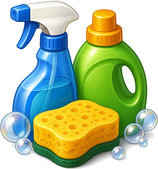
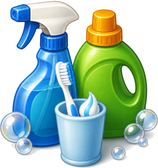
Un sol grup Neteja i higiene amb icona nova (ampolles + got amb raspall)
Claude-Session: https://claude.ai/code/session_01U8Mmhj3w1kDHbZEJg4YuWh

diff --git a/nova/index.html b/nova/index.html
@@ -432,7 +432,7 @@ button.dgr{width:100%;border:0;box-shadow:none;min-height:0;height:auto;font:inh
 <div id="app" aria-live="polite"></div>
 
 <script>
-const APPV="1793369295";let UPD=0,UPS=0;
+const APPV="1793369399";let UPD=0,UPS=0;
 
 const IC={"docs": "<svg viewBox=\"0 0 40 40\" width=\"22\" height=\"22\" aria-hidden=\"true\"><path d=\"M9 4h15l8 8v23a2 2 0 0 1-2 2H9a2 2 0 0 1-2-2V6a2 2 0 0 1 2-2z\" fill=\"#fff\" stroke=\"#5b6b7a\" stroke-width=\"1.5\"/><path d=\"M24 4v8h8\" fill=\"#e3e8ee\" stroke=\"#5b6b7a\" stroke-width=\"1.5\" stroke-linejoin=\"round\"/><circle cx=\"27\" cy=\"29\" r=\"8.5\" fill=\"#3f8a3a\" stroke=\"#fff\" stroke-width=\"1.6\"/><path d=\"M27 33.5v-9M23 28l4-4 4 4\" fill=\"none\" stroke=\"#fff\" stroke-width=\"2.2\" stroke-linecap=\"round\" stroke-linejoin=\"round\"/><path d=\"M12 17h10M12 21h7\" stroke=\"#9aa6b2\" stroke-width=\"1.6\" stroke-linecap=\"round\"/></svg>", "receptari": "<svg viewBox=\"0 0 40 40\" width=\"22\" height=\"22\" aria-hidden=\"true\"><path d=\"M6 7c5-2 10-2 14 1v27c-4-3-9-3-14-1z\" fill=\"#fff6e3\" stroke=\"#8a5a2b\" stroke-width=\"1.4\" stroke-linejoin=\"round\"/><path d=\"M34 7c-5-2-10-2-14 1v27c4-3 9-3 14-1z\" fill=\"#fff6e3\" stroke=\"#8a5a2b\" stroke-width=\"1.4\" stroke-linejoin=\"round\"/><path d=\"M4 9v26c6-2 11-2 16 1 5-3 10-3 16-1V9\" fill=\"none\" stroke=\"#c8352b\" stroke-width=\"2.4\" stroke-linejoin=\"round\"/><path d=\"M10 14h6M10 18h6M24 14h6M24 18h5\" stroke=\"#c9a46a\" stroke-width=\"1.5\" stroke-linecap=\"round\"/><path d=\"M27 24c0-2 3-2 3 0 0 2-3 3.5-3 3.5s-3-1.5-3-3.5c0-2 3-2 3 0z\" fill=\"#e0533f\"/></svg>", "menu": "<svg viewBox=\"0 0 40 40\" width=\"22\" height=\"22\" aria-hidden=\"true\"><rect x=\"5\" y=\"7\" width=\"30\" height=\"28\" rx=\"3\" fill=\"#fff\" stroke=\"#2f74b5\" stroke-width=\"1.5\"/><path d=\"M5 10a3 3 0 0 1 3-3h24a3 3 0 0 1 3 3v4H5z\" fill=\"#2f74b5\"/><path d=\"M12 4v6M28 4v6\" stroke=\"#1f4f80\" stroke-width=\"2.2\" stroke-linecap=\"round\"/><circle cx=\"20\" cy=\"25\" r=\"6.5\" fill=\"#f3e3c4\" stroke=\"#c9a46a\" stroke-width=\"1.3\"/><circle cx=\"20\" cy=\"25\" r=\"3.8\" fill=\"#fff\" stroke=\"#e2cfa6\" stroke-width=\"1\"/><path d=\"M10.5 20v10M9 20v3.5a1.5 1.5 0 0 0 3 0V20M29.5 20c1.6 0 1.8 3 1.8 4.6 0 1-.8 1.4-1.8 1.4V30\" fill=\"none\" stroke=\"#8a93a0\" stroke-width=\"1.2\" stroke-linecap=\"round\"/></svg>", "treball": "<svg viewBox=\"0 0 40 40\" width=\"22\" height=\"22\" aria-hidden=\"true\"><rect x=\"8\" y=\"6\" width=\"24\" height=\"30\" rx=\"3\" fill=\"#c98a4b\" stroke=\"#7a4a1e\" stroke-width=\"1.4\"/><rect x=\"11\" y=\"10\" width=\"18\" height=\"23\" rx=\"1.5\" fill=\"#fff\"/><rect x=\"15\" y=\"3.5\" width=\"10\" height=\"5\" rx=\"1.5\" fill=\"#9aa0a6\" stroke=\"#6b7177\" stroke-width=\"1\"/><path d=\"M14 16l2 2 3.5-3.5M14 23l2 2 3.5-3.5\" fill=\"none\" stroke=\"#3f8a3a\" stroke-width=\"1.9\" stroke-linecap=\"round\" stroke-linejoin=\"round\"/><path d=\"M22 17h5M22 24h5M14 29.5h13\" stroke=\"#b9bfc6\" stroke-width=\"1.6\" stroke-linecap=\"round\"/></svg>", "despesa": "<svg viewBox=\"0 0 40 40\" width=\"22\" height=\"22\" aria-hidden=\"true\"><path d=\"M8 4h20v31l-2.5-2-2.5 2-2.5-2-2.5 2-2.5-2-2.5 2-2.5-2L8 35z\" fill=\"#fff\" stroke=\"#7a838b\" stroke-width=\"1.4\" stroke-linejoin=\"round\"/><path d=\"M12 10h12M12 14h9M12 18h12\" stroke=\"#b9bfc6\" stroke-width=\"1.6\" stroke-linecap=\"round\"/><circle cx=\"27\" cy=\"27\" r=\"8\" fill=\"#f2c14a\" stroke=\"#c48a1a\" stroke-width=\"1.5\"/><path d=\"M29.6 23.6a4 4 0 1 0 0 6.8M22.8 25.8h5.4M22.8 28.2h5.4\" fill=\"none\" stroke=\"#8a5a10\" stroke-width=\"1.6\" stroke-linecap=\"round\"/></svg>", "hudsilo": "<svg aria-hidden=\"true\" width=\"30\" height=\"30\" viewBox=\"0 0 64 64\"><defs><linearGradient id=\"hsr\" x1=\"0\" x2=\"1\"><stop offset=\"0\" stop-color=\"#8f1a12\"/><stop offset=\".28\" stop-color=\"#d8392a\"/><stop offset=\".55\" stop-color=\"#e9503d\"/><stop offset=\"1\" stop-color=\"#9e2016\"/></linearGradient><linearGradient id=\"hsroof\" x1=\"0\" x2=\"1\"><stop offset=\"0\" stop-color=\"#3f3029\"/><stop offset=\".45\" stop-color=\"#7b6556\"/><stop offset=\"1\" stop-color=\"#4a3a31\"/></linearGradient><linearGradient id=\"hsgr\" x1=\"0\" y1=\"0\" x2=\"0\" y2=\"1\"><stop offset=\"0\" stop-color=\"#f7d36a\"/><stop offset=\".25\" stop-color=\"#e3a43a\"/><stop offset=\"1\" stop-color=\"#b8711e\"/></linearGradient><linearGradient id=\"hsmet\" x1=\"0\" x2=\"1\"><stop offset=\"0\" stop-color=\"#5d666e\"/><stop offset=\".5\" stop-color=\"#b9c2ca\"/><stop offset=\"1\" stop-color=\"#626b73\"/></linearGradient><linearGradient id=\"hsst\" x1=\"0\" y1=\"0\" x2=\"0\" y2=\"1\"><stop offset=\"0\" stop-color=\"#e4d8c6\"/><stop offset=\"1\" stop-color=\"#a99880\"/></linearGradient></defs><ellipse cx=\"32\" cy=\"58.5\" rx=\"17\" ry=\"4.2\" fill=\"url(#hsst)\" stroke=\"#7d6c56\" stroke-width=\"1.2\"/><path d=\"M17 17h30l-2.6 40.6c-6.2 2.2-18.6 2.2-24.8 0z\" fill=\"url(#hsr)\" stroke=\"#5f130c\" stroke-width=\"1.5\" stroke-linejoin=\"round\"/><path d=\"M22.4 18.5l1 40M27.6 18.6l.4 40.6M32.8 18.6v40.8M38 18.6l-.4 40.6M43.2 18.5l-1 40\" stroke=\"#7d160e\" stroke-width=\"1\" opacity=\".75\"/><path d=\"M20.2 18.8l1.6 38.4\" stroke=\"#f47b66\" stroke-width=\"1.6\" opacity=\".7\"/><path d=\"M17.3 27.5c8.6 2.8 20.8 2.8 29.4 0M18.3 44c8 2.6 19.4 2.6 27.4 0\" fill=\"none\" stroke=\"#5f130c\" stroke-width=\"3.4\" opacity=\".35\"/><path d=\"M17.3 27c8.6 2.8 20.8 2.8 29.4 0M18.3 43.5c8 2.6 19.4 2.6 27.4 0\" fill=\"none\" stroke=\"#fbf6ee\" stroke-width=\"2.4\"/><path d=\"M28.4 21.5h7.2l-1.2 33h-4.8z\" fill=\"#fbf6ee\" stroke=\"#6b1a10\" stroke-width=\"1\"/><path d=\"M29.9 23.2h4.2l-1 29.6h-2.2z\" fill=\"#5d120b\"/><path d=\"M30.4 36.5h3.4l-.7 16.3h-2.2z\" fill=\"url(#hsgr)\"/><path d=\"M30.2 37c.3-4.4 3.5-4.4 3.8 0z\" fill=\"#f7d36a\" stroke=\"#c48a26\" stroke-width=\".5\"/><circle cx=\"31.4\" cy=\"34.8\" r=\".5\" fill=\"#fff3c4\"/><circle cx=\"32.8\" cy=\"35.6\" r=\".4\" fill=\"#fff3c4\"/><path d=\"M19.5 41l-2.6.6.4 14.8M44.5 41l2.6.6-.4 14.8\" fill=\"none\" stroke=\"url(#hsmet)\" stroke-width=\"2.4\" stroke-linecap=\"round\" stroke-linejoin=\"round\"/><rect x=\"15.6\" y=\"55.3\" width=\"3.4\" height=\"2\" rx=\".6\" fill=\"#7d868f\" stroke=\"#3f464c\" stroke-width=\".6\"/><rect x=\"45\" y=\"55.3\" width=\"3.4\" height=\"2\" rx=\".6\" fill=\"#7d868f\" stroke=\"#3f464c\" stroke-width=\".6\"/><path d=\"M46 21.4h4.4v3.4\" fill=\"none\" stroke=\"url(#hsmet)\" stroke-width=\"2.2\" stroke-linecap=\"round\"/><path d=\"M50.4 24.8c1.4 4 .6 8 -1 10\" fill=\"none\" stroke=\"#a87c4f\" stroke-width=\".9\"/><path d=\"M32 3.5 14.2 17.4c5 2.4 30.6 2.4 35.6 0z\" fill=\"url(#hsroof)\" stroke=\"#2a201b\" stroke-width=\"1.5\" stroke-linejoin=\"round\"/><path d=\"M32 4.4l-7.6 13.8M32 4.4l7.2 13.8\" stroke=\"#8d7766\" stroke-width=\".8\" opacity=\".6\"/><path d=\"M21.6 11l6.2-2.2 2.4 4.2-6.4 2.2z\" fill=\"#d3d9de\" stroke=\"#5f676e\" stroke-width=\"1\"/><path d=\"M24.4 11.6l2.4-.8\" stroke=\"#5f676e\" stroke-width=\"1\" stroke-linecap=\"round\"/></svg>", "shopico": "<svg aria-hidden=\"true\" width=\"34\" height=\"34\" viewBox=\"0 0 64 64\"><defs><linearGradient id=\"bw\" x1=\"0\" x2=\"0\" y1=\"0\" y2=\"1\"><stop offset=\"0\" stop-color=\"#9c5f30\"/><stop offset=\"1\" stop-color=\"#6a3b19\"/></linearGradient><linearGradient id=\"bp\" x1=\"0\" x2=\"1\"><stop offset=\"0\" stop-color=\"#6f4120\"/><stop offset=\".5\" stop-color=\"#a86a35\"/><stop offset=\"1\" stop-color=\"#6f4120\"/></linearGradient><linearGradient id=\"bc\" x1=\"0\" x2=\"0\" y1=\"0\" y2=\"1\"><stop offset=\"0\" stop-color=\"#e4b47a\"/><stop offset=\"1\" stop-color=\"#b9824a\"/></linearGradient><linearGradient id=\"bcin\" x1=\"0\" x2=\"0\" y1=\"0\" y2=\"1\"><stop offset=\"0\" stop-color=\"#7a4a24\"/><stop offset=\"1\" stop-color=\"#a86e3c\"/></linearGradient><linearGradient id=\"awr\" x1=\"0\" x2=\"0\" y1=\"0\" y2=\"1\"><stop offset=\"0\" stop-color=\"#f05a48\"/><stop offset=\"1\" stop-color=\"#c62a20\"/></linearGradient><linearGradient id=\"aww\" x1=\"0\" x2=\"0\" y1=\"0\" y2=\"1\"><stop offset=\"0\" stop-color=\"#ffffff\"/><stop offset=\"1\" stop-color=\"#e9ddd0\"/></linearGradient><radialGradient id=\"ar\" cx=\".35\" cy=\".35\" r=\".7\"><stop offset=\"0\" stop-color=\"#ff8a7a\"/><stop offset=\".5\" stop-color=\"#e3261c\"/><stop offset=\"1\" stop-color=\"#9c120c\"/></radialGradient><radialGradient id=\"ag\" cx=\".35\" cy=\".35\" r=\".7\"><stop offset=\"0\" stop-color=\"#d9ff9a\"/><stop offset=\".5\" stop-color=\"#6cc43a\"/><stop offset=\"1\" stop-color=\"#2f7a1a\"/></radialGradient><linearGradient id=\"bk\" x1=\"0\" x2=\"1\"><stop offset=\"0\" stop-color=\"#7a4a24\"/><stop offset=\".5\" stop-color=\"#c0814a\"/><stop offset=\"1\" stop-color=\"#7a4a24\"/></linearGradient></defs><path d=\"M4 50l10-5h40l4 6-10 7H8z\" fill=\"url(#bw)\" stroke=\"#3f230e\" stroke-width=\"1.3\" stroke-linejoin=\"round\"/><path d=\"M12 47l-3 9M20 46l-3 11M28 46l-2 12M36 46l-1 12M44 46l1 12M52 47l2 9\" stroke=\"#4a2a12\" stroke-width=\".9\" opacity=\".7\"/><rect x=\"49\" y=\"12\" width=\"3.6\" height=\"40\" rx=\"1\" fill=\"url(#bp)\" stroke=\"#3f230e\" stroke-width=\"1.1\"/><rect x=\"13.2\" y=\"18\" width=\"3.4\" height=\"28\" rx=\"1\" fill=\"url(#bp)\" stroke=\"#3f230e\" stroke-width=\"1.1\"/><path d=\"M16 40h32v9H17z\" fill=\"#a8622e\" stroke=\"#4a2a12\" stroke-width=\"1.1\"/><path d=\"M17 44.5h31\" stroke=\"#7a431c\" stroke-width=\".9\"/><path d=\"M13 37.5l34-5 4 7.6-35 5.4z\" fill=\"#f1dfbd\" stroke=\"#6b3f17\" stroke-width=\"1.1\" stroke-linejoin=\"round\"/><path d=\"M15 36.5l31.6-4.8 3 6-32 4.9z\" fill=\"url(#bc)\" stroke=\"#5e3614\" stroke-width=\"1.1\" stroke-linejoin=\"round\"/><path d=\"M18.4 37.6l9-1.4 1 2.6-9 1.4zM29.4 35.9l9-1.4 1 2.6-9 1.4zM40.2 34.3l6-.9 1.1 2.6-6.1.9zM19.6 39.9l9-1.4.9 1.4-9 1.4zM30.6 38.2l9-1.4.9 1.4-9 1.4z\" fill=\"url(#bcin)\"/><path d=\"M27.4 36.2l2.1 4.3M38.4 34.5l2 4.3\" stroke=\"#5e3614\" stroke-width=\"1.2\"/><path d=\"M8.5 15.5C14 9 38 5.5 54 9.5l1.6 5\" fill=\"none\" stroke=\"#7a1e14\" stroke-width=\"1.4\"/><path d=\"M8.5 15.5 10 24.5c2.4 2 5.2 1.6 6.4-.6 2.2 2.1 5 1.8 6.3-.5 2.2 2 5 1.7 6.2-.6 2.2 2 5 1.6 6.2-.6 2.2 1.9 5 1.6 6.1-.7 2.2 1.9 4.9 1.5 6-.8 2.1 1.7 4.7 1.3 5.6-1L54 9.5C38 5.5 14 9 8.5 15.5z\" fill=\"url(#aww)\" stroke=\"#7a1e14\" stroke-width=\"1.4\" stroke-linejoin=\"round\"/><path d=\"M10 24.5c2.4 2 5.2 1.6 6.4-.6l-1.4-11.6-6.5 3.2zM22.7 23.4c2.2 2 5 1.7 6.2-.6l-1.2-13-6.7 1.4zM35.1 22.2c2.2 1.9 5 1.6 6.1-.7l-.6-13.1-6.6.4zM47.2 20.7c2.1 1.7 4.7 1.3 5.6-1L54 9.5l-6.4-1.1z\" fill=\"url(#awr)\"/><path d=\"M10.5 16.4c8-4.2 28-6 42.4-3.4\" fill=\"none\" stroke=\"#fff\" stroke-width=\"1\" opacity=\".55\"/><circle cx=\"31\" cy=\"7.3\" r=\"1.3\" fill=\"#a9b2ba\" stroke=\"#5f676e\" stroke-width=\".6\"/><circle cx=\"53.6\" cy=\"9.6\" r=\"1.3\" fill=\"#a9b2ba\" stroke=\"#5f676e\" stroke-width=\".6\"/><path d=\"M2.5 48.5h12l-1.4 9.5H4z\" fill=\"url(#bk)\" stroke=\"#4a2a12\" stroke-width=\"1.1\"/><path d=\"M3.2 52.3h10.6\" stroke=\"#9aa3ab\" stroke-width=\"1.6\"/><circle cx=\"5.6\" cy=\"47.2\" r=\"2.6\" fill=\"url(#ag)\"/><circle cx=\"9.4\" cy=\"46.4\" r=\"2.7\" fill=\"url(#ag)\"/><circle cx=\"12.3\" cy=\"47.6\" r=\"2.3\" fill=\"url(#ag)\"/><path d=\"M47 51.5h12l-1.4 9.5h-9.2z\" fill=\"url(#bk)\" stroke=\"#4a2a12\" stroke-width=\"1.1\"/><path d=\"M47.7 55.3h10.6\" stroke=\"#9aa3ab\" stroke-width=\"1.6\"/><circle cx=\"50.2\" cy=\"50.2\" r=\"2.6\" fill=\"url(#ar)\"/><circle cx=\"54\" cy=\"49.4\" r=\"2.7\" fill=\"url(#ar)\"/><circle cx=\"56.8\" cy=\"50.6\" r=\"2.3\" fill=\"url(#ar)\"/><path d=\"M54 46.8l.4-1.4\" stroke=\"#4a2a12\" stroke-width=\".8\"/></svg>", "veiico": "<svg aria-hidden=\"true\" width=\"32\" height=\"32\" viewBox=\"0 0 64 64\"><path d=\"M2 47c10-5 21-6 30-4s20 3 30-2v19H2z\" fill=\"#7fb944\"/><g stroke=\"#6b4423\" stroke-width=\"1.8\" stroke-linejoin=\"round\"><rect x=\"5\" y=\"32\" width=\"15\" height=\"14\" rx=\"1\" fill=\"#fbf1dc\"/><path d=\"M3 33.5 12.5 22 22 33.5z\" fill=\"#d1453b\"/><rect x=\"44\" y=\"32\" width=\"15\" height=\"14\" rx=\"1\" fill=\"#fbf1dc\"/><path d=\"M42 33.5 51.5 22 61 33.5z\" fill=\"#eaa63a\"/><rect x=\"38\" y=\"15\" width=\"4.5\" height=\"9\" fill=\"#a8562c\"/><rect x=\"19\" y=\"28\" width=\"26\" height=\"21\" rx=\"1.2\" fill=\"#fffaf0\"/><path d=\"M16 30 32 14l16 16z\" fill=\"#6e8c3c\"/><rect x=\"28.5\" y=\"38\" width=\"7\" height=\"11\" rx=\"1\" fill=\"#9a5a2b\"/></g><rect x=\"22.5\" y=\"32\" width=\"4.5\" height=\"4\" fill=\"#8cc7ec\"/><rect x=\"37\" y=\"32\" width=\"4.5\" height=\"4\" fill=\"#8cc7ec\"/></svg>", "crea": "<svg viewBox=\"0 0 40 40\" width=\"22\" height=\"22\" aria-hidden=\"true\"><path d=\"M8 4h15l7 7v24a2 2 0 0 1-2 2H8a2 2 0 0 1-2-2V6a2 2 0 0 1 2-2z\" fill=\"#fff\" stroke=\"#5b6b7a\" stroke-width=\"1.5\"/><path d=\"M23 4v7h7\" fill=\"#e3e8ee\" stroke=\"#5b6b7a\" stroke-width=\"1.5\" stroke-linejoin=\"round\"/><path d=\"M11 15h11M11 19h12M11 23h7\" stroke=\"#9aa6b2\" stroke-width=\"1.6\" stroke-linecap=\"round\"/><path d=\"M20 30 31 19l4 4-11 11z\" fill=\"#eaa63a\" stroke=\"#8a5a2b\" stroke-width=\"1.3\" stroke-linejoin=\"round\"/><path d=\"M31 19l1.6-1.6a1.4 1.4 0 0 1 2 0l2 2a1.4 1.4 0 0 1 0 2L35 23z\" fill=\"#e0533f\" stroke=\"#8a5a2b\" stroke-width=\"1.3\" stroke-linejoin=\"round\"/><path d=\"M20 30l4 4-6 2z\" fill=\"#f3e3c4\" stroke=\"#8a5a2b\" stroke-width=\"1.3\" stroke-linejoin=\"round\"/><path d=\"M18.6 34.4 18 36l1.6-.6z\" fill=\"#3d3d3d\"/></svg>", "qc": "<svg viewBox=\"0 0 40 40\" width=\"22\" height=\"22\" aria-hidden=\"true\"><path d=\"M15.5 19 20.3 7.2l3.3 1.3-3.4 10.8z\" fill=\"#eaa63a\" stroke=\"#a8562c\" stroke-width=\"1.3\" stroke-linejoin=\"round\"/><path d=\"M18 13.5l2 .8M17 16l1.8.7\" stroke=\"#a8562c\" stroke-width=\"1\" stroke-linecap=\"round\"/><path d=\"M21.5 7.6c-.9-2.6.2-4.3 1.6-4.9.6 1.8.4 3.6-.9 5.2zM22.3 8c1.6-2 3.6-2.2 5-1.4-1.3 1.3-3 1.9-5 1.4z\" fill=\"#7fb944\" stroke=\"#4f7a2a\" stroke-width=\"1\" stroke-linejoin=\"round\"/><path d=\"M25.5 19c-.3-4.2 1.9-7.2 5.6-8.4-.1 3.8-2 6.8-5.6 8.4z\" fill=\"#7fb944\" stroke=\"#4f7a2a\" stroke-width=\"1.2\" stroke-linejoin=\"round\"/><path d=\"M7 20h26v8a7 7 0 0 1-7 7H14a7 7 0 0 1-7-7z\" fill=\"#d8392a\" stroke=\"#8f1a12\" stroke-width=\"1.5\" stroke-linejoin=\"round\"/><path d=\"M4.5 19.5h31\" stroke=\"#8f1a12\" stroke-width=\"2.6\" stroke-linecap=\"round\"/><path d=\"M7 23.5H3.5M33 23.5h3.5\" stroke=\"#8f1a12\" stroke-width=\"2.4\" stroke-linecap=\"round\"/><path d=\"M11 24v4.5\" stroke=\"#f08a7a\" stroke-width=\"1.8\" stroke-linecap=\"round\"/></svg>", "casa": "<svg viewBox=\"0 0 40 40\" width=\"22\" height=\"22\" aria-hidden=\"true\"><ellipse cx=\"20\" cy=\"37.2\" rx=\"14\" ry=\"1.6\" fill=\"#000\" opacity=\".13\"/><path d=\"M7 19 20 7l13 12v17H7z\" fill=\"#f3e3c4\" stroke=\"#7a4a1e\" stroke-width=\"1.3\" stroke-linejoin=\"round\"/><path d=\"M4 20.5 20 5.5l16 15\" fill=\"none\" stroke=\"#c8352b\" stroke-width=\"3.4\" stroke-linecap=\"round\" stroke-linejoin=\"round\"/><rect x=\"26\" y=\"8\" width=\"4\" height=\"7\" fill=\"#9b5a2b\"/><rect x=\"16.5\" y=\"25\" width=\"7\" height=\"11\" rx=\"1\" fill=\"#9b5a2b\"/><path d=\"M14 21.5a3 3 0 0 1 6 0c0 2.6-3 4.4-3 4.4s-3-1.8-3-4.4zM20 21.5a3 3 0 0 1 6 0c0 2.6-3 4.4-3 4.4\" fill=\"none\"/><path d=\"M17.2 18.6c-1.6-1.6-4.2-.2-3.6 2 .5 1.8 3.6 3.6 3.6 3.6s3.1-1.8 3.6-3.6c.6-2.2-2-3.6-3.6-2z\" fill=\"#e0533f\" transform=\"translate(2.8 -1.2)\"/></svg>", "graner": "<svg viewBox=\"0 0 40 40\" width=\"22\" height=\"22\" aria-hidden=\"true\"><ellipse cx=\"20\" cy=\"37.2\" rx=\"15\" ry=\"1.6\" fill=\"#000\" opacity=\".13\"/><path d=\"M6 17.5 9.5 9.5 20 4.5 30.5 9.5 34 17.5V36H6z\" fill=\"#c8352b\" stroke=\"#7d1d17\" stroke-width=\"1.1\" stroke-linejoin=\"round\"/><path d=\"M3.5 18.5 8.4 8.2 20 2.8 31.6 8.2 36.5 18.5\" fill=\"none\" stroke=\"#2f3236\" stroke-width=\"3.2\" stroke-linecap=\"round\" stroke-linejoin=\"round\"/><path d=\"M9 21h22\" stroke=\"#fff\" stroke-width=\"1.6\"/><path d=\"M10 12.4 9.6 13\" stroke=\"#a52a22\" stroke-width=\".8\"/><path d=\"M12 24v12M28 24v12\" stroke=\"#a52a22\" stroke-width=\".8\" opacity=\".7\"/><rect x=\"16.5\" y=\"9.8\" width=\"7\" height=\"6.4\" fill=\"#fff\" stroke=\"#7d1d17\" stroke-width=\".6\"/><path d=\"M16.5 9.8 23.5 16.2M23.5 9.8 16.5 16.2\" stroke=\"#c8352b\" stroke-width=\"1.1\"/><rect x=\"13.5\" y=\"23.5\" width=\"13\" height=\"12.5\" fill=\"#fff\"/><rect x=\"15\" y=\"25\" width=\"10\" height=\"11\" fill=\"#8e2219\"/><path d=\"M15 25 25 36M25 25 15 36\" stroke=\"#fff\" stroke-width=\"1.3\"/><path d=\"M20 25v11\" stroke=\"#fff\" stroke-width=\"1\"/><rect x=\"5.5\" y=\"35.5\" width=\"29\" height=\"1.6\" rx=\".8\" fill=\"#9aa0a6\"/></svg>", "cart": "<svg viewBox=\"0 0 40 40\" width=\"28\" height=\"28\" aria-hidden=\"true\"><path d=\"M3 7h5l4 20h20\" fill=\"none\" stroke=\"#1f4f80\" stroke-width=\"2.4\" stroke-linecap=\"round\" stroke-linejoin=\"round\"/><path d=\"M9.5 12h26l-3 12H12z\" fill=\"#fff\" stroke=\"#2f74b5\" stroke-width=\"1.6\" stroke-linejoin=\"round\"/><path d=\"M15 12.5 18 5.5l3 1.2-2.4 5.8z\" fill=\"#eaa63a\" stroke=\"#a8562c\" stroke-width=\"1.1\" stroke-linejoin=\"round\"/><path d=\"M22 12c.2-3.6 2.2-6 5.4-6.8-.3 3.2-2 5.6-5.4 6.8z\" fill=\"#7fb944\" stroke=\"#4f7a2a\" stroke-width=\"1.1\" stroke-linejoin=\"round\"/><circle cx=\"27\" cy=\"9.5\" r=\"2.6\" fill=\"#d8392a\" stroke=\"#8f1a12\" stroke-width=\"1\"/><path d=\"M15 17h15M14 21h15\" stroke=\"#9aa6b2\" stroke-width=\"1.4\" stroke-linecap=\"round\"/><circle cx=\"14\" cy=\"32\" r=\"2.6\" fill=\"#3d3d3d\"/><circle cx=\"29\" cy=\"32\" r=\"2.6\" fill=\"#3d3d3d\"/></svg>"};
 const PI=n=>`<img class="pi" src="img/${n}.png" alt="" aria-hidden="true">`;Object.assign(IC,{menu:PI("nav_menu"),cart:PI("icona_compra"),receptari:PI("nav_receptari"),despesa:PI("nav_despesa"),crea:PI("nav_crea"),qc:PI("nav_que_cuino"),hudsilo:PI("hud_sitja"),shopico:PI("hud_botiga_37"),veiico:PI("hud_veinat")});
@@ -447,7 +447,8 @@ const LLISTA=[["Verdura i fruita",[["Carbassa","1 kg","Mercat"],["Carbassó","3 
 const RECS=[["Llenties estofades","🥘","#f8e1dd",5],["Truita de carbassó","🥚","#fbeccb",4],["Crema de carbassa","🎃","#fdf0e3",5],["Escudella","🍲","#eaf4e3",5],["Fideuà","🦐","#dbe9f7",4],["Canelons","🫕","#f8e1dd",5]];
 let S={onb:0,email:"",fam:"Rodon Aymar",mem:["Josep","Lídia","Josep","Marina"],memx:[{b:"1969-10-16",g:"h",c:4},{b:"1973-05-12",g:"d",c:3},{b:"2002-03-08",g:"h",c:2},{b:"2005-07-21",g:"d",c:1}],alg:[],res:false,muni:"",pais:"Catalunya",prov:"",inf:0,cfg:false,equip:[],rebost:"",equipx:[],algx:[],addk:"",tab:"setmana",flow:null,step:0,disp:null,menu:null,done:{},ready:false,sub:{compra:"llista",rec:"fam"}};
 const S0=JSON.parse(JSON.stringify(S));
-try{const sv=JSON.parse(localStorage.getItem("mf_nova")||"null");if(sv){if(!sv.memx&&sv.mem)sv.memx=sv.mem.map((m,i)=>({b:"",g:"n",c:i%8}));if(sv.memx)sv.memx.forEach(x=>{if(x.b===undefined)x.b="";delete x.e;});Object.assign(S,sv);if(S.onb>=10&&S.onb!==12)S.onb=99;S.algx=(S.algx||[]).filter(x=>!["Gluten","Lactosa","Fruits secs","Marisc","Ou","Peix","Soja","Porc"].some(a=>a.toLowerCase()===x.toLowerCase()));S.equipx=(S.equipx||[]).filter(x=>x.toLowerCase()!=="torradora");S.flow=null;}}catch(e){}
+const NHM=o=>{if(o)for(const k in o)if(o[k]==="Neteja de casa"||o[k]==="Higiene personal")o[k]="Neteja i higiene";};
+try{const sv=JSON.parse(localStorage.getItem("mf_nova")||"null");if(sv){if(!sv.memx&&sv.mem)sv.memx=sv.mem.map((m,i)=>({b:"",g:"n",c:i%8}));if(sv.memx)sv.memx.forEach(x=>{if(x.b===undefined)x.b="";delete x.e;});Object.assign(S,sv);if(S.onb>=10&&S.onb!==12)S.onb=99;S.algx=(S.algx||[]).filter(x=>!["Gluten","Lactosa","Fruits secs","Marisc","Ou","Peix","Soja","Porc"].some(a=>a.toLowerCase()===x.toLowerCase()));S.equipx=(S.equipx||[]).filter(x=>x.toLowerCase()!=="torradora");S.flow=null;NHM(S.gov);NHM(S.tgov);}}catch(e){}
 function saveS(){if(window._noSave)return;try{localStorage.setItem("mf_nova",JSON.stringify(S));}catch(e){}}
 
 function ovFit(){const o=$(".ovc");if(!o)return;const fl=o.closest(".flow"),ff=fl&&fl.querySelector(".fb .ff");if(!ff)return;const free=fl.getBoundingClientRect().bottom-ff.getBoundingClientRect().bottom;const w=Math.min(310,(free+50)/0.9);o.style.width=w+"px";o.style.display=w<150?"none":"";}
@@ -616,7 +617,7 @@ function pg(hero,title,body,acts){return `<div class="kc qv"><div class="khdr"><
  <button class="cap" data-a="capita" aria-label="Pregunta al Capità Enciam"><img src="img/capita_enciam.png" alt=""></button></div>`;}
 function itabs(key,arr){return `<div class="itabs">${arr.map(([k,f,l])=>`<button class="${S.sub[key]===k?"on":""}" data-sub="${key}:${k}"><img src="img/${f}.png" alt=""><b>${l}</b></button>`).join("")}</div>`;}
 const BTS=[["Mercat","#7cb83a"],["Bonpreu","#e4572e"],["Mercadona","#2e8b57"]];
-const GRL=[["Verdura i fruita","g_verdura"],["Carn","g_carn"],["Peix","g_peix"],["Ous i làctics","g_ou"],["Cereals i pasta","g_cereals"],["Llegums","g_llegums"],["Rebost","rebost"],["Neteja de casa","g_neteja"],["Higiene personal","g_higiene"],["Altres","icona_compra"]];
+const GRL=[["Verdura i fruita","g_verdura"],["Carn","g_carn"],["Peix","g_peix"],["Ous i làctics","g_ou"],["Cereals i pasta","g_cereals"],["Llegums","g_llegums"],["Rebost","rebost"],["Neteja i higiene","g_neteja"],["Altres","icona_compra"]];
 const LL2=[["Verdura i fruita","Carbassa","1 kg","Mercat",2.40],["Verdura i fruita","Carbassó","3 u","Mercat",2.10],["Verdura i fruita","Espinacs","400 g","Bonpreu",2.35],["Verdura i fruita","Pomes","1,5 kg","Mercat",3.30],["Verdura i fruita","Ceba","1 kg","Mercadona",1.29],
 ["Carn","Pit de pollastre","600 g","Bonpreu",5.94],["Carn","Carn d'olla","1 kg","Mercat",9.80],["Peix","Peix de sopa","800 g","Mercat",7.20],["Ous i làctics","Ous","12 u","Mercadona",2.95],["Ous i làctics","Llet","6 l","Mercadona",5.34],
 ["Rebost","Fideus de fideuà","500 g","Mercadona",1.15],["Rebost","Canelons","1 capsa","Mercadona",1.85],["Rebost","Tomàquet triturat","2 pots","Bonpreu",1.98]];
@@ -917,8 +918,8 @@ setTimeout(()=>updChk(false),1500);
 const SBU="https://whdcdxbfxwfriqoeloql.supabase.co",SBK="sb_publishable_zYEUVC56LnvCfGutzhCDtQ_mI2Ogm1W",BLOB=SBU+"/storage/v1/object/public/assets/";
 const MS=["Gen","Feb","Mar","Abr","Mai","Jun","Jul","Ago","Set","Oct","Nov","Des"],MF=["Gener","Febrer","Març","Abril","Maig","Juny","Juliol","Agost","Setembre","Octubre","Novembre","Desembre"];
 const pk=n=>String(n||"").toLowerCase().normalize("NFD").replace(/[\u0300-\u036f]/g,"").replace(/[^a-z0-9]+/g," ").trim().slice(0,60);
-const GMAP={"Verdura":"Verdura i fruita","Fruita":"Verdura i fruita","Carn":"Carn","Peix i marisc":"Peix","Ous i làctics":"Ous i làctics","Pa i bolleria":"Cereals i pasta","Arròs, pasta i llegums":"Cereals i pasta","Rebost i conserves":"Rebost","Elaborats i precuinats":"Rebost","Congelats":"Rebost","Dolços i snacks":"Rebost","Neteja i llar":"Neteja de casa","Higiene personal":"Higiene personal"};
-const GKW=[["Verdura i fruita","enciam tomaquet ceba all pastanaga carbassa carbasso patata pebrot espinac bleda porro api col brocoli poma pera platan taronja llimona maduixa raim meló sindria fruita verdura bolet alberginia mongeta tendra"],["Carn","pollastre porc vedella xai conill hamburguesa botifarra pernil carn salsitxa gall dindi llom"],["Peix","peix lluc salmo tonyina bacalla sipia calamar gamba musclo rap llobarro orada sardina seito"],["Ous i làctics","ou ous llet iogurt formatge mantega nata"],["Cereals i pasta","pa arros pasta macarrons espaguetis fideus farina cereals galetes"],["Llegums","llenties cigrons mongetes seques"],["Rebost","oli vinagre sal sucre tomaquet triturat conserva tonyina en llauna cafe te xocolata"],["Neteja de casa","detergent lleixiu suavitzant rentavaixelles fregall esponja bossa escombraries netejador vitroceramica"],["Higiene personal","xampu gel dutxa sabo pasta dents raspall desodorant compreses tampons higienic cotonets crema"]];
+const GMAP={"Verdura":"Verdura i fruita","Fruita":"Verdura i fruita","Carn":"Carn","Peix i marisc":"Peix","Ous i làctics":"Ous i làctics","Pa i bolleria":"Cereals i pasta","Arròs, pasta i llegums":"Cereals i pasta","Rebost i conserves":"Rebost","Elaborats i precuinats":"Rebost","Congelats":"Rebost","Dolços i snacks":"Rebost","Neteja i llar":"Neteja i higiene","Higiene personal":"Neteja i higiene"};
+const GKW=[["Verdura i fruita","enciam tomaquet ceba all pastanaga carbassa carbasso patata pebrot espinac bleda porro api col brocoli poma pera platan taronja llimona maduixa raim meló sindria fruita verdura bolet alberginia mongeta tendra"],["Carn","pollastre porc vedella xai conill hamburguesa botifarra pernil carn salsitxa gall dindi llom"],["Peix","peix lluc salmo tonyina bacalla sipia calamar gamba musclo rap llobarro orada sardina seito"],["Ous i làctics","ou ous llet iogurt formatge mantega nata"],["Cereals i pasta","pa arros pasta macarrons espaguetis fideus farina cereals galetes"],["Llegums","llenties cigrons mongetes seques"],["Rebost","oli vinagre sal sucre tomaquet triturat conserva tonyina en llauna cafe te xocolata"],["Neteja i higiene","detergent lleixiu suavitzant rentavaixelles fregall esponja bossa escombraries netejador vitroceramica"],["Neteja i higiene","xampu gel dutxa sabo pasta dents raspall desodorant compreses tampons higienic cotonets crema"]];
 function gOf(n,P){const k=pk(n),e=P[k]||Object.values(P).find(x=>pk(x.n)===k);if(e&&GMAP[e.g])return GMAP[e.g];for(const[g,w]of GKW)if(w.split(" ").some(x=>x.length>2&&(" "+k+" ").includes(" "+x)))return g;return "Altres";}
 const SHC=["#e4572e","#2e8b57","#7cb83a","#3a8fc8","#c8352b","#f0b429","#9b7bc4","#8a5a2b"];
 function impApply(D,UR,em){const nn=o=>Object.fromEntries(Object.entries(o||{}).filter(([,v])=>v&&typeof v==="object")),c=D.config||{},P=Object.fromEntries(Object.entries(nn(D.preus&&D.preus.items)).map(([k,v])=>[k,{...v,h:nn(v.h)}])),M=(c.membres||[]).filter(x=>x&&x.nom);
@@ -980,7 +981,7 @@ function monRows(m){const R=S.real,gv=S.gov||{},tg=S.tgov||{},O=tOwn(),out=[],ls
 function realDM(){const R=S.real;if(!R)return [];if(!R.arts)return (R.dmes||[]);const ms=[...new Set(R.tik.map(t=>t.d.slice(0,7)))].sort().slice(-12);
  return ms.map(m=>{const rows=monRows(m),g={};let t=0;R.tik.forEach(x=>{if(x.d.startsWith(m))t+=x.i;});rows.forEach(r=>{g[r.g]=(g[r.g]||0)+r.i;});const y=+m.slice(0,4),mm=+m.slice(5,7)-1;return [MS[mm],Math.round(t*100)/100,g,MF[mm]+" "+y,m];});}
 let DGO="",RET=null,CSORT="nc";
-const GALL=()=>DGR.concat([["Neteja de casa","g_neteja","#4bb3c8",0],["Higiene personal","g_higiene","#e88aa8",0],["Altres","icona_compra","#9aa3ad",0],["No classificat","nocla","#c9c2b0",0]]);
+const GALL=()=>DGR.concat([["Neteja i higiene","g_neteja","#4bb3c8",0],["Altres","icona_compra","#9aa3ad",0],["No classificat","nocla","#c9c2b0",0]]);
 const gic=g=>(GALL().find(x=>x[0]===g)||[])[1]||"nocla";
 function curMon(){const R=realDM();if(!R.length)return null;const mi=Math.max(0,R.length-1+(S.dm||0));return R[mi];}
 const pct=(v,t)=>t>0?(v/t*100<1&&v>0?"<1":Math.round(v/t*100))+" %":"";
